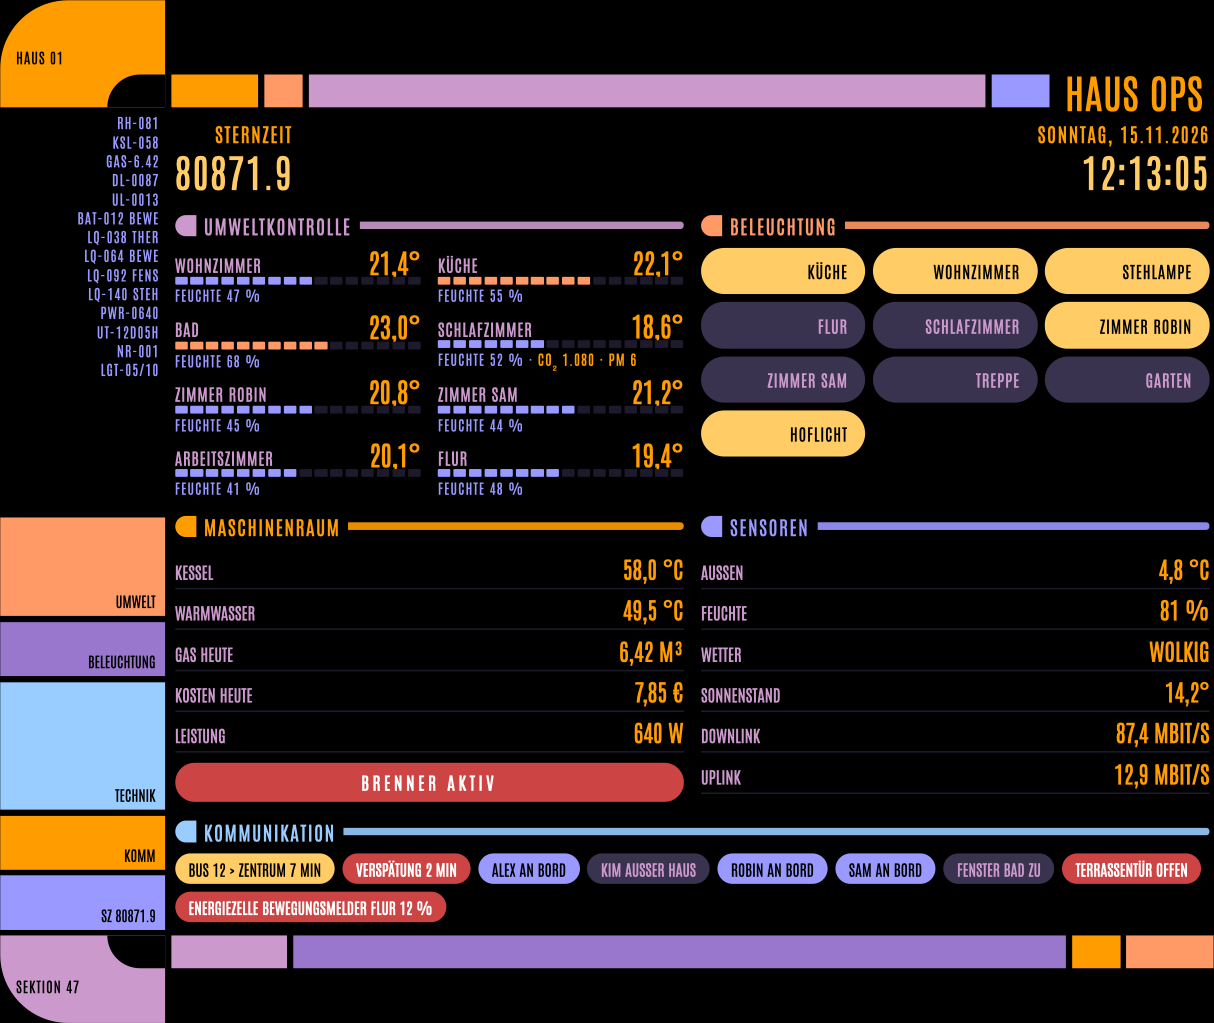
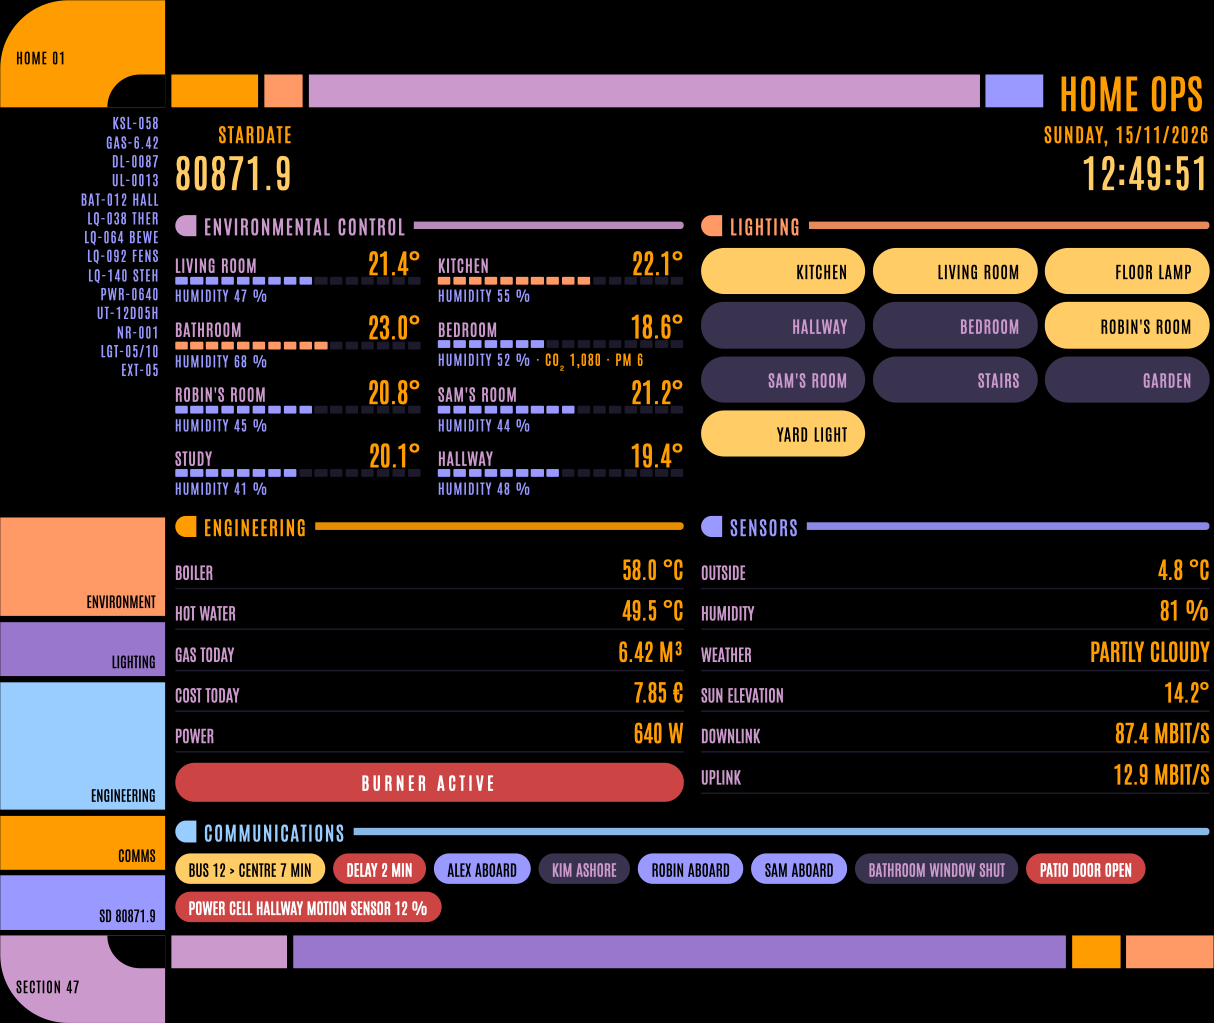
v1.1.0

diff --git a/starship-console-card.js b/starship-console-card.js
@@ -4,6 +4,23 @@
[1 lines of base64/hex data omitted]
 // Gemeinsamer Kern aller Karten. build.py stellt ihn jeder Karte voran, damit jedes Paket eine einzelne Datei bleibt.
 
+// Sprache der Kartentexte: language: de|en, sonst die Sprache von Home Assistant; alles außer Deutsch wird Englisch
+let LANGUAGE = 'de';
+let LOCALE = 'de-DE';
+function setLanguage(hass, cfg) {
+  const want = String(cfg?.language || hass?.locale?.language || hass?.language || 'de').toLowerCase();
+  LANGUAGE = want.startsWith('de') ? 'de' : 'en';
+  LOCALE = LANGUAGE === 'de' ? 'de-DE' : 'en-GB';
+}
+// Text in der aktuellen Sprache: tr('Kessel', 'Boiler')
+const tr = (de, en) => (LANGUAGE === 'en' ? en : de);
+
+const WEATHER_EN = {
+  'clear-night': 'clear', cloudy: 'cloudy', exceptional: 'severe weather', fog: 'foggy', hail: 'hail',
+  lightning: 'thunderstorm', 'lightning-rainy': 'thunderstorm with rain', partlycloudy: 'partly cloudy', pouring: 'heavy rain',
+  rainy: 'rain', snowy: 'snow', 'snowy-rainy': 'sleet', sunny: 'sunny', windy: 'windy',
+  'windy-variant': 'windy and cloudy',
+};
 const WEATHER_DE = {
   'clear-night': 'klar', cloudy: 'bedeckt', exceptional: 'Unwetter', fog: 'neblig', hail: 'Hagel',
   lightning: 'Gewitter', 'lightning-rainy': 'Gewitter mit Regen', partlycloudy: 'wolkig', pouring: 'Starkregen',
@@ -21,7 +38,7 @@ const num = (hass, id) => {
 };
 
 const fmt = (v, digits = 1) =>
-  Number.isFinite(v) ? v.toLocaleString('de-DE', { minimumFractionDigits: digits, maximumFractionDigits: digits }) : '–';
+  Number.isFinite(v) ? v.toLocaleString(LOCALE, { minimumFractionDigits: digits, maximumFractionDigits: digits }) : '–';
 
 const isOn = (hass, id) => hass.states[id]?.state === 'on';
 
@@ -47,6 +64,7 @@ function loadFonts(css, id) {
 
 // Alle Werte, die eine Karte anzeigt, aus Zustand und Kartenkonfiguration
 function buildModel(hass, cfg, now = new Date()) {
+  setLanguage(hass, cfg);
   const st = (id) => (id ? hass.states[id] : undefined);
   const weather = st(cfg.weather);
   const sun = st(cfg.sun || 'sun.sun')?.attributes || {};
@@ -63,9 +81,9 @@ function buildModel(hass, cfg, now = new Date()) {
   return {
     hass,
     now,
-    title: cfg.title || 'Haus',
+    title: cfg.title || tr('Haus', 'Home'),
     outside: { temperature: outside, humidity: num(hass, cfg.outside_humidity) },
-    weather: { state: weather?.state || '', label: WEATHER_DE[weather?.state] || weather?.state || '' },
+    weather: { state: weather?.state || '', label: (LANGUAGE === 'de' ? WEATHER_DE : WEATHER_EN)[weather?.state] || weather?.state || '' },
     sun: { elevation: sun.elevation ?? NaN, azimuth: sun.azimuth ?? NaN },
     heating: {
       configured: Boolean(cfg.flame || cfg.boiler),
@@ -88,7 +106,7 @@ function buildModel(hass, cfg, now = new Date()) {
     persons: Object.values(hass.states).filter((s) => s.entity_id.startsWith('person.'))
       .map((s) => ({ name: (s.attributes.friendly_name || s.entity_id).split(' ')[0], home: s.state === 'home' })),
     departure: depart.entity ? {
-      name: depart.name || 'Abfahrt',
+      name: depart.name || tr('Abfahrt', 'Departure'),
       minutes: Number.isFinite(departAt) ? Math.round((departAt - now.getTime()) / 60000) : NaN,
       delay: num(hass, depart.delay),
     } : null,
@@ -164,8 +182,8 @@ function attachIdle(card, root) {
         const m = n.getHours() * 60 + n.getMinutes();
         clock.style.left = `${10 + ((m * 37) % 50)}%`;
         clock.style.top = `${15 + ((m * 53) % 55)}%`;
-        clock.innerHTML = `${n.toLocaleTimeString('de-DE', { hour: '2-digit', minute: '2-digit' })}
-          <div class="idle-date">${n.toLocaleDateString('de-DE', { weekday: 'long', day: 'numeric', month: 'long' })}</div>`;
+        clock.innerHTML = `${n.toLocaleTimeString(LOCALE, { hour: '2-digit', minute: '2-digit' })}
+          <div class="idle-date">${n.toLocaleDateString(LOCALE, { weekday: 'long', day: 'numeric', month: 'long' })}</div>`;
       }
     },
   };
@@ -206,6 +224,7 @@ class TemplateCard extends HTMLElement {
   set hass(hass) {
     this._hass = hass;
     if (!this._root) {
+      setLanguage(hass, this.config);
       this._root = this.attachShadow({ mode: 'open' });
       this._root.innerHTML = this.shell(this.config);
       this._root.addEventListener('click', (ev) => {
@@ -385,30 +404,30 @@ class StarshipConsoleCard extends TemplateCard {
   @media (max-width: 640px) { .lc { grid-template-columns: 70px 1fr; padding:8px; } .elbow span, .cascade, .side .blk { font-size:11px; } .bar .title { font-size:28px; } }
 </style>
 <div class="lc">
-  <div class="elbow top"><span>${esc((cfg.title || 'Haus').toUpperCase())} 01</span></div>
+  <div class="elbow top"><span>${esc((cfg.title || tr('Haus', 'Home')).toUpperCase())} 01</span></div>
   <div class="bar top"><i style="width:90px;background:var(--orange)"></i><i style="width:40px;background:var(--peach)"></i><i style="flex:1;background:var(--lilac)"></i>
-    <i style="width:60px;background:var(--blue)"></i><span class="title">${esc((cfg.title || 'Haus').toUpperCase())} OPS</span></div>
+    <i style="width:60px;background:var(--blue)"></i><span class="title">${esc((cfg.title || tr('Haus', 'Home')).toUpperCase())} OPS</span></div>
   <div class="side">${slot('cascade', 'div', 'class="cascade"')}
-    <div class="blk">UMWELT</div><div class="blk">BELEUCHTUNG</div><div class="blk">TECHNIK</div><div class="blk">KOMM</div><div class="blk">${slot('sd', 'span')}</div></div>
+    <div class="blk">${tr('UMWELT', 'ENVIRONMENT')}</div><div class="blk">${tr('BELEUCHTUNG', 'LIGHTING')}</div><div class="blk">${tr('TECHNIK', 'ENGINEERING')}</div><div class="blk">${tr('KOMM', 'COMMS')}</div><div class="blk">${slot('sd', 'span')}</div></div>
   <div class="main">
     <section class="wide s" style="display:flex;justify-content:space-between;align-items:flex-end">${slot('header', 'div', 'style="width:100%"')}</section>
     <section class="l">
-      <h2>Umweltkontrolle</h2>${slot('rooms')}
+      <h2>${tr('Umweltkontrolle', 'Environmental control')}</h2>${slot('rooms')}
     </section>
     <section class="p">
-      <h2>Beleuchtung</h2>${slot('lights')}
+      <h2>${tr('Beleuchtung', 'Lighting')}</h2>${slot('lights')}
     </section>
     <section>
-      <h2>Maschinenraum</h2>${slot('engine')}
+      <h2>${tr('Maschinenraum', 'Engineering')}</h2>${slot('engine')}
     </section>
     <section class="b">
-      <h2>Sensoren</h2>${slot('sensors')}
+      <h2>${tr('Sensoren', 'Sensors')}</h2>${slot('sensors')}
     </section>
     <section class="wide s">
-      <h2>Kommunikation</h2>${slot('comm')}
+      <h2>${tr('Kommunikation', 'Communications')}</h2>${slot('comm')}
     </section>
   </div>
-  <div class="elbow bottom"><span>SEKTION 47</span></div>
+  <div class="elbow bottom"><span>${tr('SEKTION', 'SECTION')} 47</span></div>
   <div class="bar bottom"><i style="width:120px;background:var(--lilac)"></i><i style="flex:1;background:var(--violet)"></i><i style="width:50px;background:var(--orange)"></i><i style="width:90px;background:var(--peach)"></i></div>
 </div>`;
   }
@@ -427,38 +446,38 @@ class StarshipConsoleCard extends TemplateCard {
     if (m.departure) {
       const mins = m.departure.minutes;
       tags.push([`${m.departure.name} ${Number.isFinite(mins) && mins >= 0 ? `${mins} MIN` : '–'}`, 'gold']);
-      if (m.departure.delay > 0) tags.push([`Verspätung ${fmt(m.departure.delay, 0)} min`, 'warn']);
+      if (m.departure.delay > 0) tags.push([`${tr('Verspätung', 'Delay')} ${fmt(m.departure.delay, 0)} min`, 'warn']);
     }
-    for (const p of m.persons) tags.push([`${p.name} ${p.home ? 'an Bord' : 'außer Haus'}`, p.home ? 'ok' : '']);
-    for (const c of m.contacts) tags.push([`${c.name} ${c.open ? 'offen' : 'zu'}`, c.open ? 'warn' : '']);
-    for (const b of m.lowBattery.slice(0, 6)) tags.push([`Energiezelle ${b.name} ${fmt(b.level, 0)} %`, 'warn']);
+    for (const p of m.persons) tags.push([`${p.name} ${p.home ? tr('an Bord', 'aboard') : tr('außer Haus', 'ashore')}`, p.home ? 'ok' : '']);
+    for (const c of m.contacts) tags.push([`${c.name} ${c.open ? tr('offen', 'open') : tr('zu', 'shut')}`, c.open ? 'warn' : '']);
+    for (const b of m.lowBattery.slice(0, 6)) tags.push([`${tr('Energiezelle', 'Power cell')} ${b.name} ${fmt(b.level, 0)} %`, 'warn']);
     return {
       cascade: (() => {
         const items = cascadeItems(m, cfg);
         const off = Math.floor(t.getTime() / 1000) % items.length;
         return Array.from({ length: Math.min(CASCADE_ROWS, items.length) }, (_, i) => items[(off + i) % items.length]).join('<br>');
       })(),
-      sd: `SZ ${stardate(t)}`,
+      sd: `${tr('SZ', 'SD')} ${stardate(t)}`,
       header: `<div style="display:flex;justify-content:space-between;align-items:flex-end;width:100%">
-        <div class="clock">Sternzeit<br><b>${stardate(t)}</b></div>
-        <div class="clock">${t.toLocaleDateString('de-DE', { weekday: 'long', day: '2-digit', month: '2-digit', year: 'numeric' })}<br><b>${t.toLocaleTimeString('de-DE')}</b></div></div>`,
+        <div class="clock">${tr('Sternzeit', 'Stardate')}<br><b>${stardate(t)}</b></div>
+        <div class="clock">${t.toLocaleDateString(LOCALE, { weekday: 'long', day: '2-digit', month: '2-digit', year: 'numeric' })}<br><b>${t.toLocaleTimeString(LOCALE)}</b></div></div>`,
       rooms: `<div class="rows">${m.rooms.map((r) => `<div class="row"><span class="n">${esc(r.name)}</span>
         <span class="v">${Number.isFinite(r.temperature) ? `${fmt(r.temperature)}°` : '––'}</span>${seg(r.temperature)}
-        <span class="h">${Number.isFinite(r.humidity) ? `Feuchte ${fmt(r.humidity, 0)} %` : 'Kein Signal'}${airInfo(r).text ? ` · <span class="${airInfo(r).level}">${airInfo(r).text}</span>` : ''}</span></div>`).join('')}</div>`,
+        <span class="h">${Number.isFinite(r.humidity) ? `${tr('Feuchte', 'Humidity')} ${fmt(r.humidity, 0)} %` : tr('Kein Signal', 'No signal')}${airInfo(r).text ? ` · <span class="${airInfo(r).level}">${airInfo(r).text}</span>` : ''}</span></div>`).join('')}</div>`,
       lights: `<div class="pills">${m.lights.map((l) =>
         `<button class="pill ${l.on ? 'on' : ''}" data-toggle="${esc(l.entity)}" ${l.unavailable ? 'disabled' : ''}>${esc(l.name)}</button>`).join('')}</div>`,
-      engine: (h.configured ? kv('Kessel', `${fmt(h.boiler)} °C`) + kv('Warmwasser', `${fmt(h.hotWater)} °C`)
-        + kv('Gas heute', `${fmt(h.gasToday, 2)} m³`) + kv('Kosten heute', `${fmt(h.gasCost, 2)} €`) : '')
-        + kv('Leistung', `${fmt(m.power, 0)} W`)
-        + (h.configured ? `<div class="alert ${h.flame ? 'on' : ''}">${h.flame ? 'Brenner aktiv' : 'Brenner bereit'}</div>` : ''),
-      sensors: kv('Außen', `${fmt(m.outside.temperature)} °C`) + kv('Feuchte', `${fmt(m.outside.humidity, 0)} %`)
-        + kv('Wetter', esc(m.weather.label)) + kv('Sonnenstand', `${fmt(m.sun.elevation)}°`)
+      engine: (h.configured ? kv(tr('Kessel', 'Boiler'), `${fmt(h.boiler)} °C`) + kv(tr('Warmwasser', 'Hot water'), `${fmt(h.hotWater)} °C`)
+        + kv(tr('Gas heute', 'Gas today'), `${fmt(h.gasToday, 2)} m³`) + kv(tr('Kosten heute', 'Cost today'), `${fmt(h.gasCost, 2)} €`) : '')
+        + kv(tr('Leistung', 'Power'), `${fmt(m.power, 0)} W`)
+        + (h.configured ? `<div class="alert ${h.flame ? 'on' : ''}">${h.flame ? tr('Brenner aktiv', 'Burner active') : tr('Brenner bereit', 'Burner ready')}</div>` : ''),
+      sensors: kv(tr('Außen', 'Outside'), `${fmt(m.outside.temperature)} °C`) + kv(tr('Feuchte', 'Humidity'), `${fmt(m.outside.humidity, 0)} %`)
+        + kv(tr('Wetter', 'Weather'), esc(m.weather.label)) + kv(tr('Sonnenstand', 'Sun elevation'), `${fmt(m.sun.elevation)}°`)
         + (m.net.configured ? kv('Downlink', `${fmt(m.net.down, 1)} Mbit/s`) + kv('Uplink', `${fmt(m.net.up, 1)} Mbit/s`) : ''),
       comm: `<div class="tags">${tags.map(([text, cls]) => `<span class="tag ${cls}">${esc(text)}</span>`).join('')}</div>`,
     };
   }
 }
 
-registerCard('starship-console-card', StarshipConsoleCard, 'Raumschiff-Konsole', 'Konsole im Stil von Science-Fiction-Serien der 90er');
+registerCard('starship-console-card', StarshipConsoleCard, 'Starship Console', 'Console in the style of 90s science-fiction shows');
 
 })();

diff --git a/README.md b/README.md
@@ -20,6 +20,7 @@ All cards share the same keys. Anything missing is hidden or shown as "–".
 ```yaml
 type: custom:starship-console-card
 title: Home
+language: en                          # en or de; defaults to the Home Assistant language
 outside_temperature: sensor.outdoor_temperature
 outside_humidity: sensor.outdoor_humidity
 weather: weather.forecast_home        # condition, and fallback for the outdoor temperature
@@ -57,7 +58,7 @@ The idle screen puts a black layer with a faint clock over the dashboard; a tap 
 
 People come from all `person.*` entities, low batteries from all sensors with `device_class: battery`.
 
-The text shown on the cards is German.
+The cards speak English and German. Without `language` they follow the Home Assistant language; anything other than German shows English.
 
 ## Installation
 
@@ -89,6 +90,8 @@ Apache License 2.0, copyright 2026 Axel Eble. If you redistribute or modify the 
 
 ### Raumschiff-Konsole
 
+![Screenshot](images/starship-console-card-de.png)
+
 Konsole im Stil von Science-Fiction-Serien der 90er: schwarzer Grund, abgerundete Farbbalken, Ellbogen, schmale Versalien und eine Pseudo-Sternzeit.
 
 Die Zahlenkolonne links oben zeigt echte Werte als Codes und rollt jede Sekunde eine Zeile weiter: `PWR` Leistung, `UT` Uptime (Sensor der Integration „Uptime“, sonst `uptime:` angeben), `NR` nicht erreichbare Entitäten, `LGT` eingeschaltete Lampen, `EXT`/`RH` außen, `KSL` Kessel, `GAS` Gas heute, `DL`/`UL` Netz, `BAT` schwache Batterien, `LQ` Linkqualität aller `*_linkquality`-Sensoren (schwächste zuerst).
@@ -99,7 +102,6 @@ Die Zahlenkolonne links oben zeigt echte Werte als Codes und rollt jede Sekunde 
 - Sensoren mit Außenwerten und Netzdurchsatz, Kommunikation mit Abfahrten, Personen, Kontakten und Batterien.
 
 Die Karte ist eine Hommage an einen Gestaltungsstil. Sie enthält keine Namen, Logos oder Begriffe aus einer bestimmten Serie.
-
 #### Konfiguration
 
 Alle Karten teilen sich dieselben Schlüssel. Was fehlt, wird ausgeblendet oder als „–“ angezeigt.
@@ -107,6 +109,7 @@ Alle Karten teilen sich dieselben Schlüssel. Was fehlt, wird ausgeblendet oder 
 ```yaml
 type: custom:starship-console-card
 title: Haus
+language: de                          # de oder en; Standard ist die Sprache von Home Assistant
 outside_temperature: sensor.aussen_temperatur
 outside_humidity: sensor.aussen_feuchte
 weather: weather.forecast_home        # Zustand und Ersatz für die Außentemperatur
